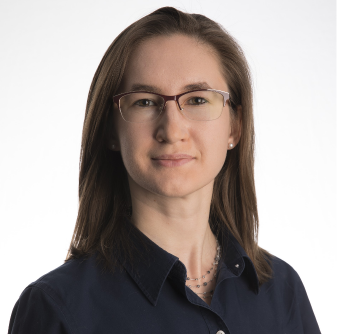
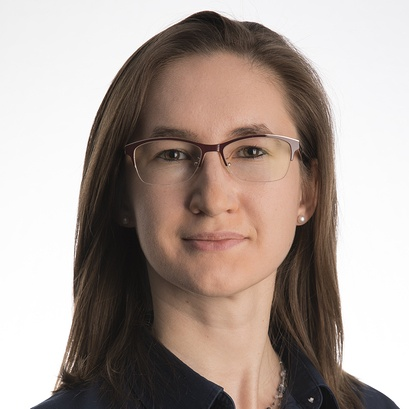
Initial team page feedback

diff --git a/assets/css/_includes/_team-member-card.scss b/assets/css/_includes/_team-member-card.scss
@@ -39,4 +39,5 @@
 
 .team-member-heading {
   padding: 0rem 1rem;
+  margin-bottom: 0;
 }

diff --git a/collections/_team_members/samantha-weinstock.md b/collections/_team_members/samantha-weinstock.md
@@ -5,6 +5,6 @@ permalink: /team/samantha-weinstock/
 image_id: attJt6jgFKLRtY9cO
 image_path: /assets/img/import/bio/samantha-weinstock/samantha-weinstock.jpg
 job_title: Head of Operations and Partnerships
-blurb: <p>Samantha Weinstock is the head of operations and partnerships for xD and provides research help and project management for select xD projects. Sam brings extensive nonprofit and academic experience to the team. Prior to xD, Sam was the Executive Director of a research nonprofit, Center of Complex Interventions, where she set the strategic vision for the organization, ran day-to-day operations, and worked closely with the CCI research team on various research projects. Before CCI, Sam was the Director of Administration at YarnLabs Inc, a fiscal sponsor for non-profits. She also previously managed research at MIT and worked as a researcher at Harvard Law School and the Berkman Klein Center for Internet &amp; Society. Before entering the academic and non-profit space, Sam worked at Google. She has a master’s degree in Modern European History from the University of Cambridge and a B.A. in History from Grinnell College. When not running operations for xD, Sam can usually be found biking up New England’s finest gravel mountain roads.</p>
+blurb: <p>Samantha Weinstock (she/her) runs operations and manages partnerships for xD and provides research help and project management for xD projects. Sam brings extensive nonprofit and academic experience to the team. Prior to xD, Sam was the Executive Director of a research nonprofit, Center of Complex Interventions, where she set the strategic vision for the organization, ran day-to-day operations, and worked closely with the CCI research team on various research projects. Before CCI, Sam was the Director of Administration at YarnLabs Inc, a fiscal sponsor for non-profits. She also previously managed research at MIT and worked as a researcher at Harvard Law School and the Berkman Klein Center for Internet &amp; Society. Before entering the academic and non-profit space, Sam worked at Google. </p>
 
 ---

diff --git a/collections/_team_members/kate-mc-call-kiley.md b/collections/_team_members/kate-mc-call-kiley.md
@@ -5,6 +5,6 @@ permalink: /team/kate-mc-call-kiley/
 image_id: attAbROOShOJO6KDY
 image_path: /assets/img/import/bio/kate-mccall-kiley/kate-mccall-kiley.jpg
 job_title: Managing Director
-blurb: <p>Kate McCall-Kiley co-founded and currently serves as managing director of xD where she&#39;s continually motivated by what amazing emerging technology talent can do for public good. Previously, Kate served as a White House Presidential Innovation Fellow where she worked on projects including <a href="http://vote.gov/">vote.gov</a>, The Opportunity Project, <a href="http://worker.gov/">worker.gov</a>, and then Vice President Biden&#39;s Cancer Moonshot. Her work has been featured in <em>The Economist, Time</em>, <em>Fast Company,</em> and <em>Wired</em>. When not at xD, she enjoys teaching at Carnegie Mellon University, coaching toddler soccer, reading philosophy, and tending to houseplants.</p>
+blurb: <p>Kate McCall-Kiley (she/her) co-founded and currently serves as managing director of xD where she&#39;s continually motivated by what amazing emerging technology talent can do for public good. Previously, Kate served as a White House Presidential Innovation Fellow where she worked on projects including <a href="http://vote.gov/">vote.gov</a>, The Opportunity Project, <a href="http://worker.gov/">worker.gov</a>, and then Vice President Biden&#39;s Cancer Moonshot. Her work has been featured in <em>The Economist, Time</em>, <em>Fast Company,</em> and <em>Wired</em>. When not at xD, she enjoys teaching at Carnegie Mellon University, coaching toddler soccer, reading philosophy, and tending to houseplants.</p>
 
 ---

diff --git a/collections/_team_members/diamond-nwankwo.md b/collections/_team_members/diamond-nwankwo.md
@@ -2,9 +2,9 @@
 name: Diamond Nwankwo
 title: Diamond Nwankwo
 permalink: /team/diamond-nwankwo/
-image_id: att9pSN4nKRKjWUmV
+image_id: attquY60OgMxdz6nJ
 image_path: /assets/img/import/bio/diamond-nwankwo/diamond-nwankwo.jpg
-job_title: Emerging Technology Fellow
-blurb: <p>Diamond Nwankwo (she/her) has a proven data-based track record with 10 years of experience in data engineering and quality assurance/control field within aerospace manufacturing.<br>Diamond worked as a senior data engineer, where she was responsible for designing, building and maintaining data pipelines and systems. Prior to that, she worked in solar renewable energy as a data engineer where she was the lead on an irradiance extract, transform, load (ETL) pipeline development and reporting data quality.</p>
+job_title: Emerging Technology Fellow - 2023 Cohort
+blurb: <p>Diamond (she/her) is excited to be an Emerging Technology Fellow. She has multifaceted data-based track record at the intersection of data engineering, process improvement, and quality assurance/control. Prior to working at xD, she worked as a Senior Data Engineer where she focused on architecting, improving, and maintaining robust data pipelines and systems while ensuring data quality and accuracy in reporting. Before transitioning into data engineering, she worked as a Quality and Process Improvement Engineer in Aerospace Manufacturing. In this role, she spearheaded SMART Manufacturing and Lean Six Sigma initiatives. Additionally, successfully led the transition and certification from AS 9100 Rev C to Rev D as a Lead Auditor.</p>
 
 ---

diff --git a/collections/_team_members/anna-vasylytsya.md b/collections/_team_members/anna-vasylytsya.md
@@ -4,7 +4,7 @@ title: Anna Vasylytsya
 permalink: /team/anna-vasylytsya/
 image_id: attoZc4P4TFYJW2aW
 image_path: /assets/img/import/bio/anna-vasylytsya/anna-vasylytsya.jpg
-job_title: Emerging Technology Fellow
-blurb: <p>Anna is excited to start as an Emerging Technology Fellow at the Census Bureau. She is excited about data-driven decision-making, being able to combine her passions for technology, policy, and data.<br>Prior to Census, Anna was a senior data scientist at the National Associations of REALTORS (NAR), one of the largest trade associations in the U.S. At NAR, she produced data analyses and delivered insights, built dashboards and worked on improving data quality on a broad range of topics that impact realtors. Anna started her career as a federal contractor at the Department of State and she is excited to return to public service.</p>
+job_title: Emerging Technology Fellow - 2023 Cohort
+blurb: <p>Anna (she/her) is excited to start as an Emerging Technology Fellow at the Census Bureau. She is excited about data-driven decision-making, being able to combine her passions for technology, policy, and data.<br>Prior to Census, Anna was a senior data scientist at the National Associations of REALTORS (NAR), one of the largest trade associations in the U.S. At NAR, she produced data analyses and delivered insights, built dashboards and worked on improving data quality on a broad range of topics that impact realtors. Anna started her career as a federal contractor at the Department of State and she is excited to return to public service.</p>
 
 ---

diff --git a/collections/_team_members/mike-walton.md b/collections/_team_members/mike-walton.md
@@ -4,7 +4,7 @@ title: Mike Walton
 permalink: /team/mike-walton/
 image_id: attROSxw6AXAkJppo
 image_path: /assets/img/import/bio/mike-walton/mike-walton.jpg
-job_title: Emerging Technology Fellow
-blurb: <p>Mike Walton is a researcher, technologist and writer endlessly fascinated by the study of cognition and intelligent systems. His research aims to synthesize ideas from multi-agent reinforcement learning, game theory and participatory design to address socially impactful cooperation and coordination problems. Mike’s research has been supported by the Office of Naval Research (ONR), Defense Advanced Research Projects Agency (DARPA) and The Naval Information Warfare Center (NIWC) In-house Laboratory Independent Research Program.</p>
+job_title: Emerging Technology Fellow - 2023 Cohort
+blurb: <p>Mike Walton (he/him) is a researcher, technologist and writer endlessly fascinated by the study of cognition and intelligent systems. His research aims to synthesize ideas from multi-agent reinforcement learning, game theory and participatory design to address socially impactful cooperation and coordination problems. Mike’s research has been supported by the Office of Naval Research (ONR), Defense Advanced Research Projects Agency (DARPA) and The Naval Information Warfare Center (NIWC) In-house Laboratory Independent Research Program.</p>
 
 ---

diff --git a/collections/_team_members/curtis-mitchell.md b/collections/_team_members/curtis-mitchell.md
@@ -4,7 +4,7 @@ title: Curtis Mitchell
 permalink: /team/curtis-mitchell/
 image_id: attlVfSWFOzhOwYsK
 image_path: /assets/img/import/bio/curtis-mitchell/curtis-mitchell.jpg
-job_title: Emerging Technology Fellow
+job_title: Emerging Technology Fellow - 2023 Cohort
 blurb: <p>Curtis Mitchell (he/him) is excited to be an Emerging Technology Fellow on the xD team. His career has gone through several transitions, including being a data analyst at an energy consulting firm before working at several data analysis and machine learning startups as a software engineer, as well as contributing to various privacy-enhancing technology and machine learning open-source projects. Before joining xD, he worked at NASA’s Ames Research Center on a research platform to integrate drones and air taxis into the air traffic control system. When he&#39;s not behind a keyboard, Curtis enjoys learning foreign languages, recreating his favorite foods from his upbringing in Texas, and exploring the outdoors of Northern California.</p>
 
 ---

diff --git a/collections/_team_members/ian-munoz.md b/collections/_team_members/ian-munoz.md
@@ -5,6 +5,6 @@ permalink: /team/ian-munoz/
 image_id: attlQoVOY2bfunFKj
 image_path: /assets/img/import/bio/ian-munoz/ian-munoz.jpg
 job_title: Tech Lead
-blurb: <p>My name is Ian and I&#39;m excited to be joining xD! I started my career in academic computing supporting research at a National Science Foundation (NSF) funded environmental research center at University of Maryland. Later, I worked in bioinformatics at Oregon State University. I then spent time working for fintech startups as a DevOps engineer.</p>
+blurb: <p>My name is Ian (he/him) and I&#39;m excited to be joining xD! I started my career in academic computing supporting research at a National Science Foundation (NSF) funded environmental research center at University of Maryland. Later, I worked in bioinformatics at Oregon State University. I then spent time working for fintech startups as a DevOps engineer.</p>
 
 ---

diff --git a/collections/_team_members/tomo-lazovich.md b/collections/_team_members/tomo-lazovich.md
@@ -4,7 +4,7 @@ title: Tomo Lazovich
 permalink: /team/tomo-lazovich/
 image_id: attR760W90B7VP511
 image_path: /assets/img/import/bio/tomo-lazovich/tomo-lazovich.jpg
-job_title: Emerging Technology Fellow
+job_title: Emerging Technology Fellow - 2023 Cohort
 blurb: <p>Tomo Lazovich (they/them) is a senior research scientist at the Institute for Experiential AI at Northeastern University. Prior to joining the institute in 2023, they were a senior machine learning researcher at Twitter, developing a suite of metrics to measure inequality in outcomes for the Machine Learning Ethics, Transparency, and Accountability (META) team. Tomo has a significant amount of experience as an interdisciplinary researcher and machine learning practitioner, with defined expertise in building technical solutions to complex problems from the ground up.</p>
 
 ---
